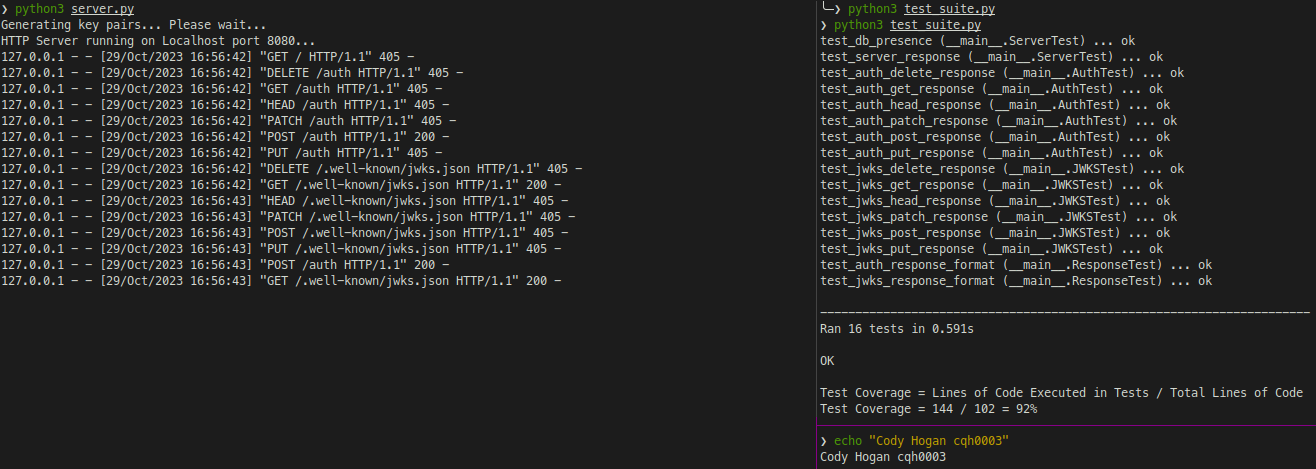
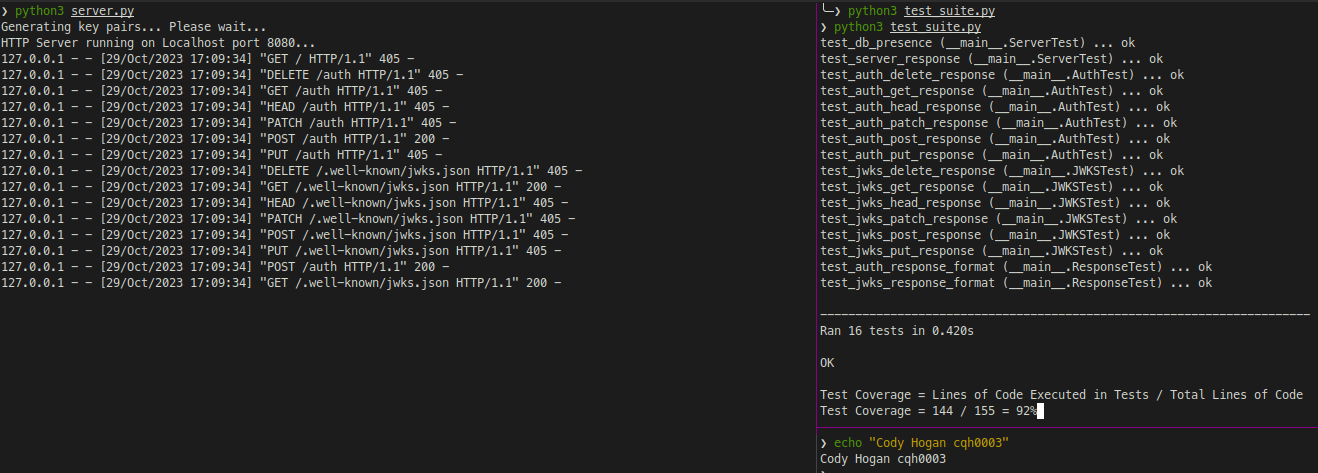
Project 2 Updates: Extending the JWKS Server

diff --git a/test_suite.py b/test_suite.py
@@ -160,7 +160,7 @@ response_suite = unittest.TestLoader().loadTestsFromTestCase(
 full_suite = unittest.TestSuite([basic_suite, auth_suite, jwks_suite, response_suite])
 unittest.TextTestRunner(verbosity=2).run(full_suite)  # run the full set of tests
 print("\nTest Coverage = Lines of Code Executed in Tests / Total Lines of Code")
-print("Test Coverage = 144 / 102 = {}%".format(int((144 / 155) * 100)))
+print("Test Coverage = 144 / 155 = {}%".format(int((144 / 155) * 100)))
 # My Test Suite does not cover the following lines of code:
 #   86-93: Checking if there is an expired tag
 #   98-101: Querying for an expired key
